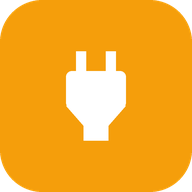
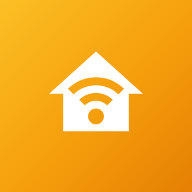
App 改名「家庭中控 Home Hub」，新圖示
- 名稱：網頁標題、主畫面捷徑、PWA 名稱、側邊選單、README
- 新圖示：橘色漸層＋家與訊號（home-automation），重新產生 180/192/512 圖示
- 側邊選單的焦點框只在用鍵盤時顯示（滑鼠點了不再出現藍框）

Claude-Session: https://claude.ai/code/session_01QtqbEZwquLaZVgis7YwkXB

diff --git a/app/plughub/static/app.js b/app/plughub/static/app.js
@@ -237,6 +237,8 @@ const STYLE = `
   button { background: none; border: 0; padding: 0; cursor: pointer; }
   button:disabled { cursor: default; opacity: .4; }
   :focus-visible { outline: 2px solid var(--accent); outline-offset: 2px; }
+  :focus:not(:focus-visible) { outline: none; }
+  .tab:focus-visible { outline-offset: -2px; }
   .i { width: 20px; height: 20px; fill: currentColor; flex: none; display: block; }
   ::-webkit-scrollbar { width: 10px; height: 10px; }
   ::-webkit-scrollbar-thumb { background: var(--soft2); border-radius: 10px; border: 3px solid transparent; background-clip: content-box; }
@@ -269,8 +271,10 @@ const STYLE = `
       display: flex; flex-direction: column; gap: 2px; position: fixed; left: 0; top: 0; bottom: 0; width: 240px;
       padding: 20px 12px; background: var(--card); border-right: 1px solid var(--line); z-index: 20;
     }
-    .side .logo { display: flex; align-items: center; gap: 10px; font-size: 17px; font-weight: 700; letter-spacing: -.2px; padding: 4px 10px 22px; }
-    .side .logo .i { width: 32px; height: 32px; padding: 6px; border-radius: 10px; background: var(--on); color: #fff; }
+    .side .logo { display: flex; align-items: center; gap: 11px; padding: 4px 8px 24px; }
+    .side .logo .i { width: 36px; height: 36px; padding: 7px; border-radius: 11px; background: linear-gradient(140deg, #fbbf24, #f59e0b 55%, #ea8a06); color: #fff; box-shadow: 0 2px 6px -1px rgba(245,158,11,.45); }
+    .side .logo b { display: block; font-size: 16px; font-weight: 700; letter-spacing: .5px; line-height: 1.2; }
+    .side .logo small { display: block; font-size: 11.5px; font-weight: 500; color: var(--muted); letter-spacing: .3px; }
     .side .tab { flex: none; flex-direction: row; justify-content: flex-start; gap: 12px; height: 40px; padding: 0 12px; border-radius: var(--r-sm); font-size: 14.5px; font-weight: 500; color: var(--muted); }
     .side .tab .i { width: 20px; height: 20px; }
     .side .tab.sel { background: var(--accent-soft); color: var(--accent-text); font-weight: 600; }
@@ -771,7 +775,7 @@ class PlugApp extends HTMLElement {
     }
     const banner = this._s && !this._connected ? `<div class="banner">${ic("mdi:cloud-off-outline")}連不上插座伺服器，重新連線中…</div>` : "";
     const html = `
-      <nav class="side" aria-label="選單"><div class="logo">${ic("mdi:power-plug")}插座</div>${nav}${conn}</nav>
+      <nav class="side" aria-label="選單"><div class="logo">${ic("mdi:home-automation")}<div><b>家庭中控</b><small>Home Hub</small></div></div>${nav}${conn}</nav>
       <main class="content"><div class="page">${banner}${page}</div></main>
       <nav class="tabbar" aria-label="選單">${nav}</nav>`;
     if (html === this._lastHtml) return; // 沒有變就不動畫面

diff --git a/app/plughub/static/icons.js b/app/plughub/static/icons.js
@@ -14,6 +14,7 @@ export const ICONS = {
   "mdi:undo":"M12.5,8C9.85,8 7.45,9 5.6,10.6L2,7V16H11L7.38,12.38C8.77,11.22 10.54,10.5 12.5,10.5C16.04,10.5 19.05,12.81 20.1,16L22.47,15.22C21.08,11.03 17.15,8 12.5,8Z",
   "mdi:white-balance-sunny":"M3.55,18.54L4.96,19.95L6.76,18.16L5.34,16.74M11,22.45C11.32,22.45 13,22.45 13,22.45V19.5H11M12,5.5A6,6 0 0,0 6,11.5A6,6 0 0,0 12,17.5A6,6 0 0,0 18,11.5C18,8.18 15.31,5.5 12,5.5M20,12.5H23V10.5H20M17.24,18.16L19.04,19.95L20.45,18.54L18.66,16.74M20.45,4.46L19.04,3.05L17.24,4.84L18.66,6.26M13,0.55H11V3.5H13M4,10.5H1V12.5H4M6.76,4.84L4.96,3.05L3.55,4.46L5.34,6.26L6.76,4.84Z",
   "mdi:star-outline":"M12,15.39L8.24,17.66L9.23,13.38L5.91,10.5L10.29,10.13L12,6.09L13.71,10.13L18.09,10.5L14.77,13.38L15.76,17.66M22,9.24L14.81,8.62L12,2L9.19,8.62L2,9.24L7.45,13.97L5.82,21L12,17.27L18.18,21L16.54,13.97L22,9.24Z",
+  "mdi:home-automation":"M12,3L2,12H5V20H19V12H22L12,3M12,8.5C14.34,8.5 16.46,9.43 18,10.94L16.8,12.12C15.56,10.92 13.86,10.17 12,10.17C10.14,10.17 8.44,10.92 7.2,12.12L6,10.94C7.54,9.43 9.66,8.5 12,8.5M12,11.83C13.4,11.83 14.66,12.39 15.6,13.3L14.4,14.47C13.79,13.87 12.94,13.5 12,13.5C11.06,13.5 10.21,13.87 9.6,14.47L8.4,13.3C9.34,12.39 10.6,11.83 12,11.83M12,15.17C12.94,15.17 13.7,15.91 13.7,16.83C13.7,17.75 12.94,18.5 12,18.5C11.06,18.5 10.3,17.75 10.3,16.83C10.3,15.91 11.06,15.17 12,15.17Z",
   "mdi:home":"M10,20V14H14V20H19V12H22L12,3L2,12H5V20H10Z",
   "mdi:calendar-clock":"M15,13H16.5V15.82L18.94,17.23L18.19,18.53L15,16.69V13M19,8H5V19H9.67C9.24,18.09 9,17.07 9,16A7,7 0 0,1 16,9C17.07,9 18.09,9.24 19,9.67V8M5,21C3.89,21 3,20.1 3,19V5C3,3.89 3.89,3 5,3H6V1H8V3H16V1H18V3H19A2,2 0 0,1 21,5V11.1C22.24,12.36 23,14.09 23,16A7,7 0 0,1 16,23C14.09,23 12.36,22.24 11.1,21H5M16,11.15A4.85,4.85 0 0,0 11.15,16C11.15,18.68 13.32,20.85 16,20.85A4.85,4.85 0 0,0 20.85,16C20.85,13.32 18.68,11.15 16,11.15Z",
   "mdi:play":"M8,5.14V19.14L19,12.14L8,5.14Z",

diff --git a/app/plughub/static/index.html b/app/plughub/static/index.html
@@ -3,13 +3,13 @@
 <head>
   <meta charset="utf-8">
   <meta name="viewport" content="width=device-width, initial-scale=1, viewport-fit=cover">
-  <title>插座</title>
+  <title>家庭中控</title>
   <meta name="theme-color" content="#f2f3f5" media="(prefers-color-scheme: light)">
   <meta name="theme-color" content="#111214" media="(prefers-color-scheme: dark)">
   <meta name="apple-mobile-web-app-capable" content="yes">
   <meta name="mobile-web-app-capable" content="yes">
   <meta name="apple-mobile-web-app-status-bar-style" content="default">
-  <meta name="apple-mobile-web-app-title" content="插座">
+  <meta name="apple-mobile-web-app-title" content="家庭中控">
   <link rel="manifest" href="/static/manifest.webmanifest">
   <link rel="icon" href="/static/icon-192.png">
   <link rel="apple-touch-icon" href="/static/icon-180.png">

diff --git a/app/plughub/static/sw.js b/app/plughub/static/sw.js
@@ -1,5 +1,5 @@
 // 讓網頁可以「加入主畫面」；畫面框架先用網路、連不上才用上次存的。API 一律不快取。
-const CACHE = "plughub-v12";
+const CACHE = "plughub-v13";
 const SHELL = ["/", "/static/app.js", "/static/icons.js", "/static/manifest.webmanifest", "/static/icon-192.png"];
 
 self.addEventListener("install", (e) => {

diff --git a/app/README.md b/app/README.md
@@ -1,4 +1,4 @@
-# 插座 App（不用 Home Assistant）
+# 家庭中控 Home Hub（不用 Home Assistant）
 
 樹莓派上的小伺服器加一個手機網頁 App，直接在區網控制 TP-Link Kasa／Tapo 插座：不用帳號、不經過雲端、不用 Home Assistant。
 
